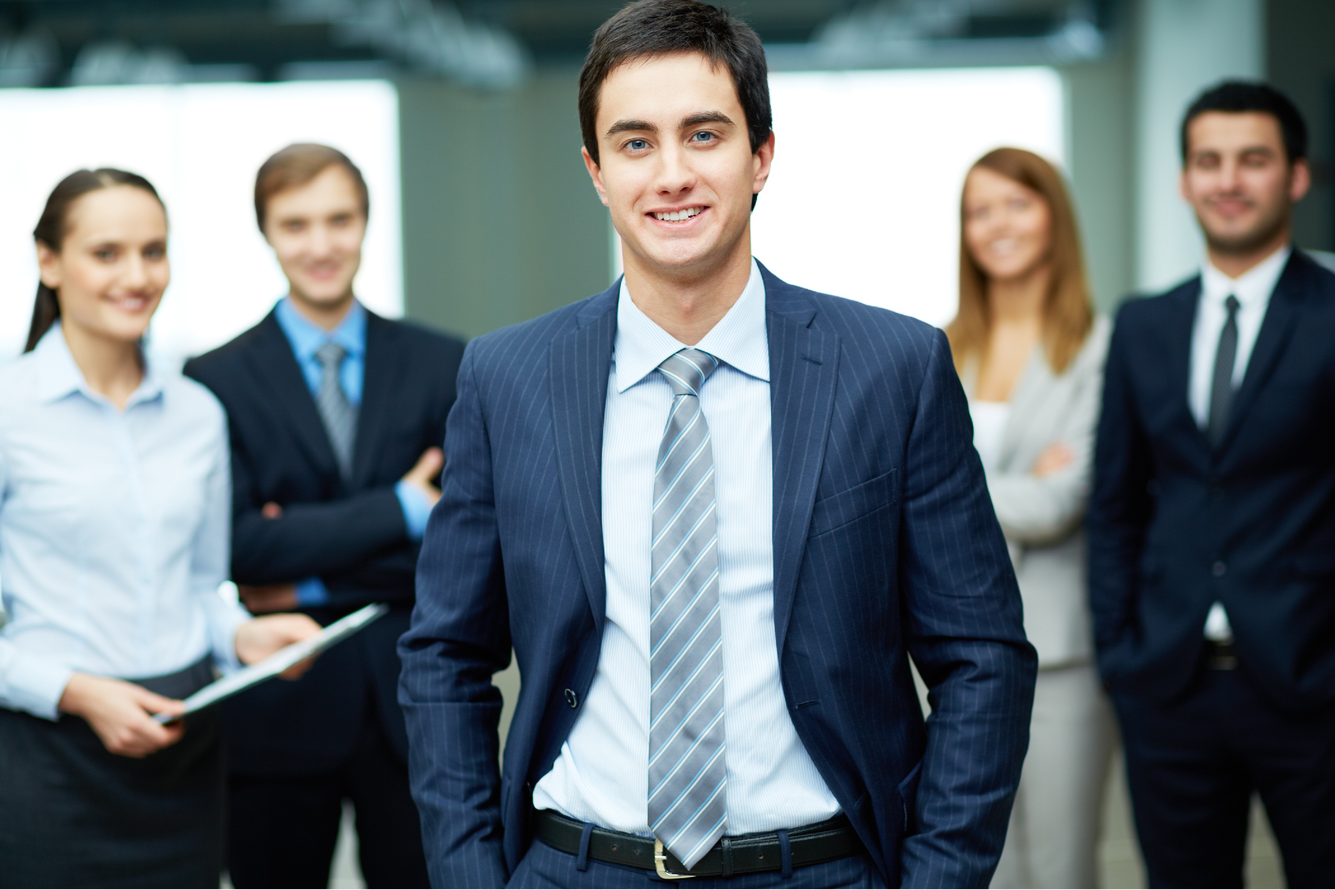
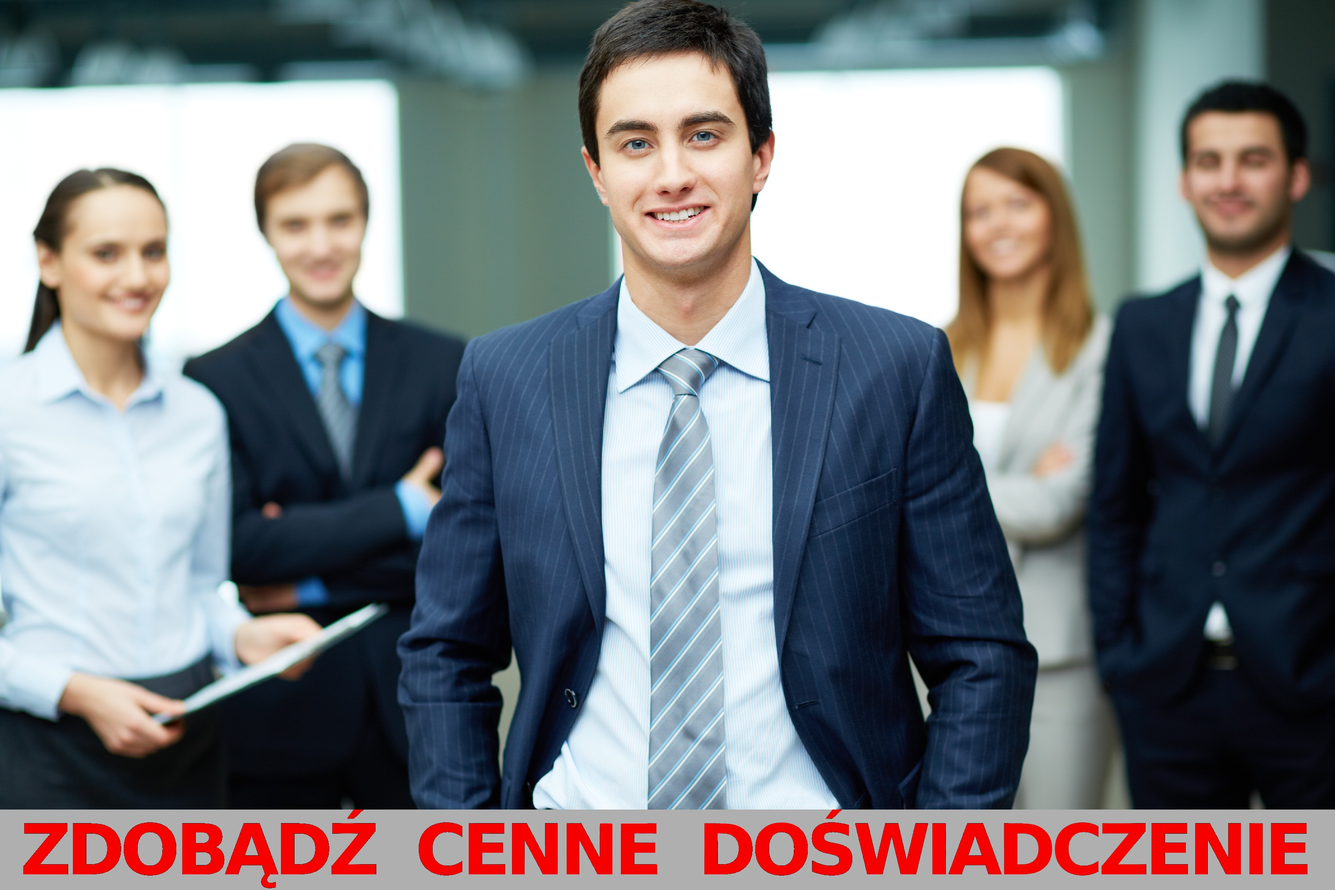
31-01

Changed region(s): [[0.0, 0.8968, 1.0, 1.0]]

diff --git a/PortalPracy/js/send_message.js b/PortalPracy/js/send_message.js
@@ -10,7 +10,7 @@ $(document).ready(function() {
             'recipient':$('select[name=recipient]').val()
 
         };
-
+// tu nie działa wysyłanie wiadomości
         // process the form
         $.ajax({
             type: 'POST', // define the type of HTTP verb we want to use (POST for our form)

diff --git a/PortalPracy/php/index.php b/PortalPracy/php/index.php
@@ -38,7 +38,7 @@
 
 
             $(document).ready(function() {
-                setInterval(rotateImage, 5500);
+                setInterval(rotateImage, 5000);
                 var icons = {
                     header: "ui-icon-circle-arrow-e",
                     activeHeader: "ui-icon-circle-arrow-s"
@@ -348,8 +348,9 @@
 
 
                     <div id="test">
-                        <img id="myImage" src="../images/test1.jpg" alt="image test" width="500" height="313"/>
-                        <p>Lorem ipsum dolor sit amet, consectetur adipisicing elit...</p>
+                        <!--<p><h3><font size="10">DOŁĄCZ DO NAS JUŻ DZIŚ</font></h3></p>-->
+                    <p></p>
+                    <img id="myImage" src="../images/employee.jpg" alt="image" width="680" height="433"/>   
                     </div>
 
 

diff --git a/PortalPracy/php/classPage.php b/PortalPracy/php/classPage.php
@@ -10,7 +10,7 @@ class Page {
 
     function dofooter() {
         echo '<div id="footer">
-            <p>Copyright &copy; 2013, designed by <a href="http://www.alphastudio.pl/">Alpha Studio</a> | <a href="#">Privacy Policy</a></p>
+            <p>Copyright &copy; 2013, designed by <a href="http://www.alphastudio.pl/">Alpha Studio</a></p>
         </div>';
     }
 

diff --git a/PortalPracy/samplemail.php b/PortalPracy/samplemail.php
@@ -49,7 +49,7 @@ if (isset($_POST['submit'])) {
     $email->FromName  = 'Your Name';
     $email->Subject   = 'Email with two attachments';
     $email->Body      = 'to jest email z zalacznikiem';
-    $email->AddAddress( 'magdagrzesinska@gmail.com' );
+    $email->AddAddress( 'magdalena.waszczynska.com' );
 
     $file_to_attach = 'images/image.jpg';
 
